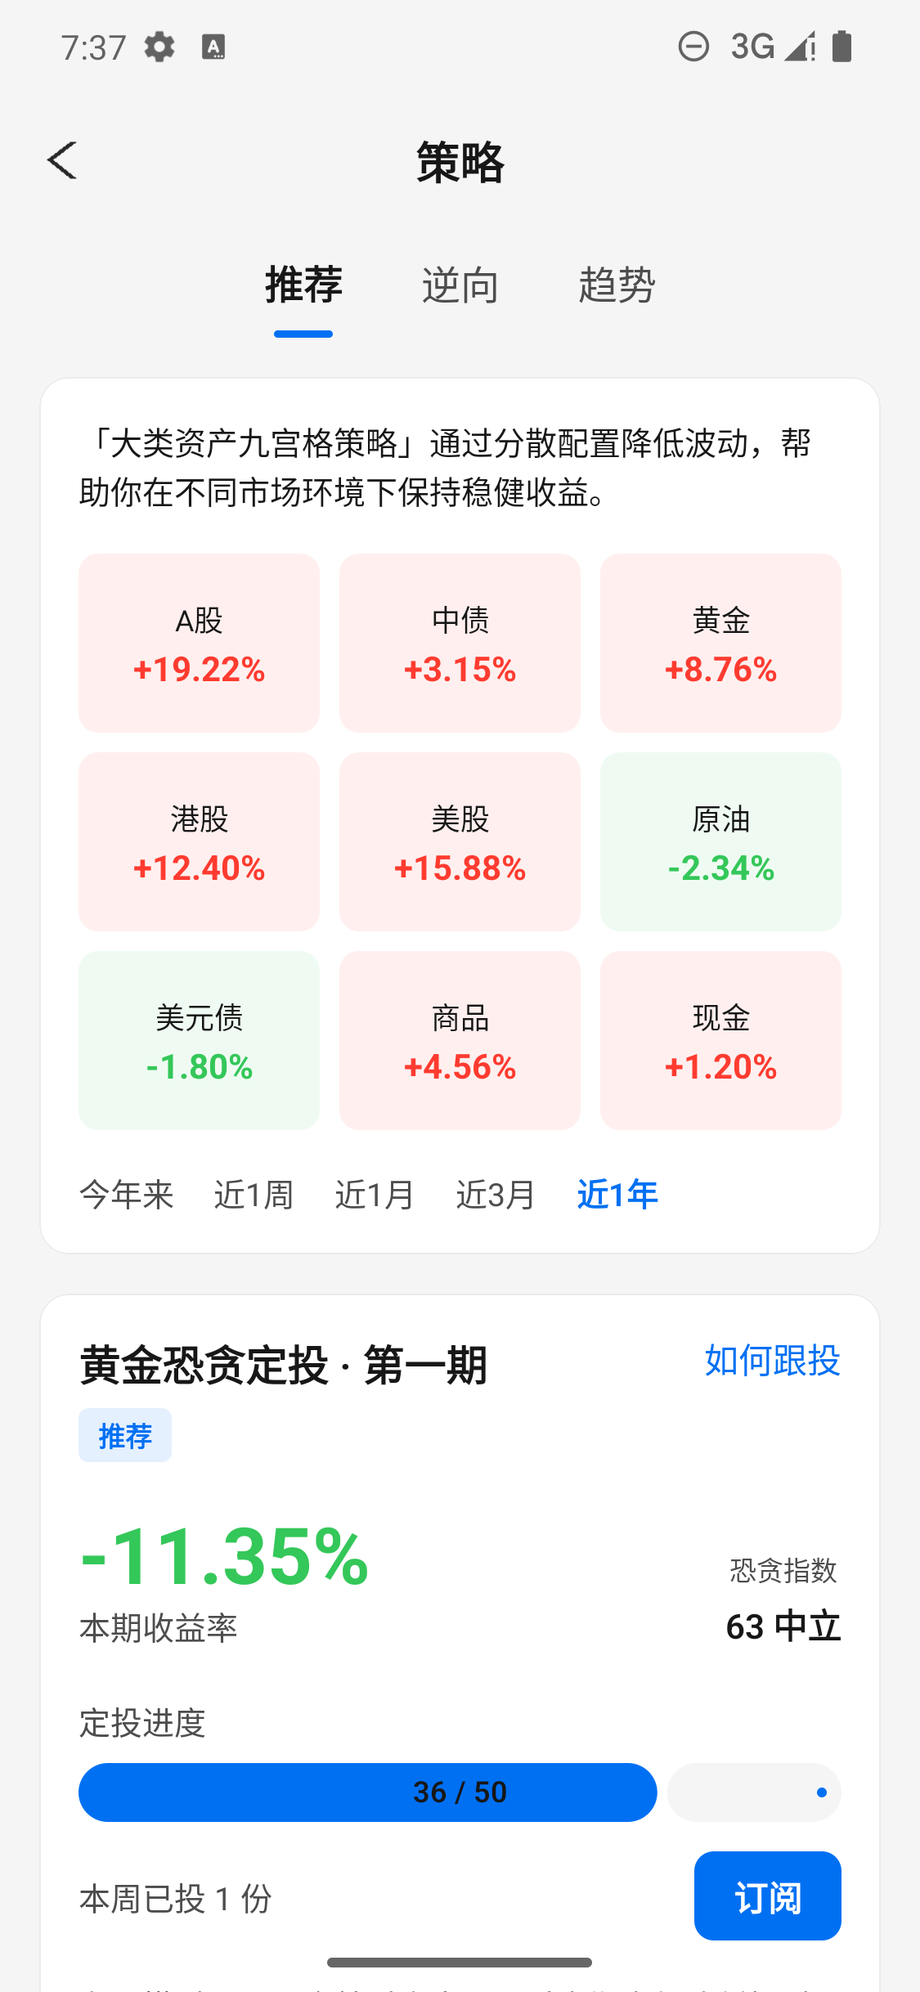
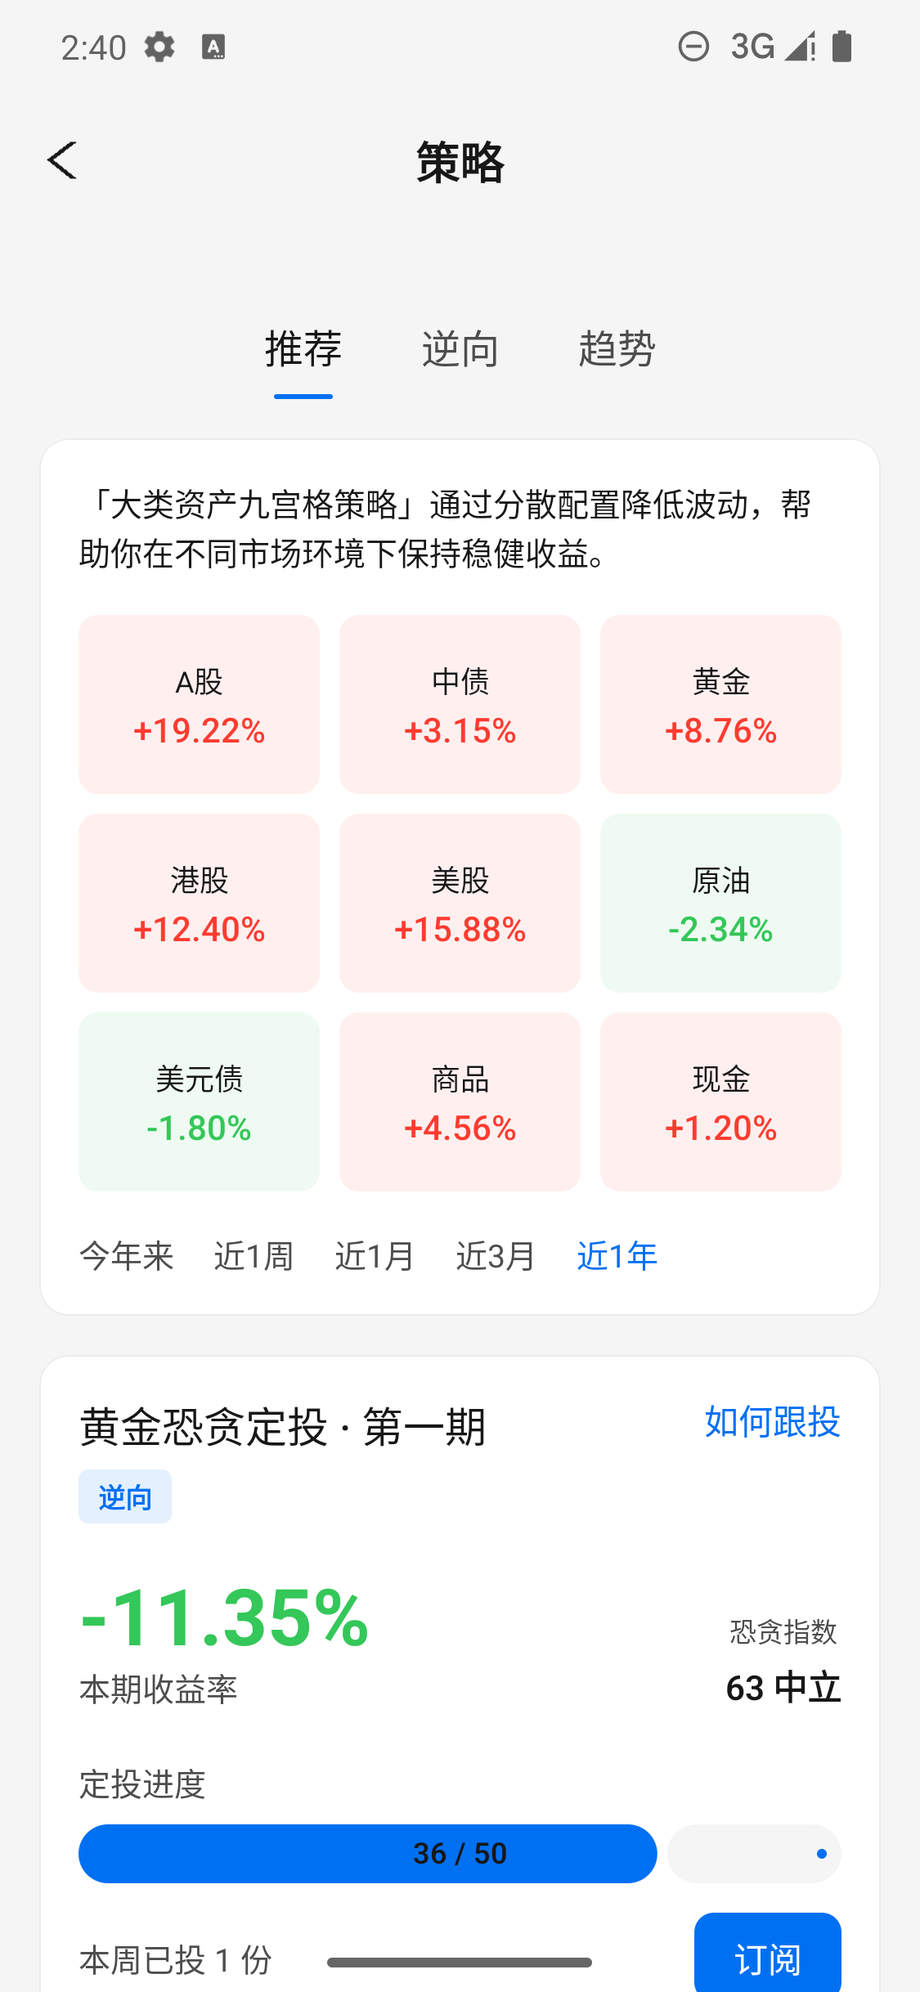
feat(parity): seed analytics list + tighten search/strategy near-miss chrome
Align analytics mock to Flutter seed_chart_v1 titles (10/48); keep compact cards after chart cutover raised mse. Search discovery card/highlight/slider knobs; strategy type weight + subscribe row. Refresh Android gate evidence (still FAIL under 2%).

diff --git a/composeApp/src/commonMain/kotlin/com.example.my_kmp_project/feature/home/HomeRouteHost.kt b/composeApp/src/commonMain/kotlin/com.example.my_kmp_project/feature/home/HomeRouteHost.kt
@@ -8,6 +8,7 @@ import androidx.compose.foundation.horizontalScroll
 import androidx.compose.foundation.layout.Arrangement
 import androidx.compose.foundation.layout.Box
 import androidx.compose.foundation.layout.Column
+import androidx.compose.foundation.layout.IntrinsicSize
 import androidx.compose.foundation.layout.PaddingValues
 import androidx.compose.foundation.layout.Row
 import androidx.compose.foundation.layout.Spacer
@@ -322,42 +323,19 @@ internal object HomeSecondaryMock {
         HomeListRow("本周线索转化", "转化率 12.4% · 环比 +1.2pp"),
         HomeListRow("试驾到店", "到店 86 · 成交 11"),
     )
+    /** Flutter SoT first page (Go seed_chart_v1 / SQL) — 10 of 48. */
+    val analyticsTotal = 48
     val analyticsRecords = listOf(
-        AnalyticsRecordRow(
-            code = "AN-0001",
-            title = "本周线索转化",
-            subtitle = "门店线索漏斗 · 高意向优先",
-            status = "active",
-            pv = 12840,
-            uv = 5000,
-            clicks = 962,
-            converts = 119,
-            roi = 5.80,
-            featured = true,
-        ),
-        AnalyticsRecordRow(
-            code = "AN-0002",
-            title = "试驾到店",
-            subtitle = "预约试驾 → 到店完成",
-            status = "active",
-            pv = 4520,
-            uv = 2100,
-            clicks = 610,
-            converts = 86,
-            roi = 3.20,
-        ),
-        AnalyticsRecordRow(
-            code = "AN-0003",
-            title = "直播线索异常",
-            subtitle = "点击骤降 · 需排查投放",
-            status = "paused",
-            pv = 2100,
-            uv = 980,
-            clicks = 42,
-            converts = 3,
-            roi = 0.19,
-            anomaly = true,
-        ),
+        AnalyticsRecordRow("AN-0001", "双十一主会场漏斗", "获客 · App 大促峰值", "active", 12000, 5040, 1915, 230, 5.80, featured = true),
+        AnalyticsRecordRow("AN-0002", "异常：投放点击虚高", "投放 · 合作方流量注水嫌疑", "paused", 13800, 7590, 5465, 82, 0.19, anomaly = true),
+        AnalyticsRecordRow("AN-0003", "精选：小程序裂变", "转化 · 小程序分享链路", "active", 15600, 7488, 3370, 741, 6.64, featured = true),
+        AnalyticsRecordRow("AN-0004", "零点击冷启动页", "获客 · H5 新落地页尚无互动", "draft", 17400, 5394, 0, 0, 0.0),
+        AnalyticsRecordRow("AN-0005", "高客单线下门店", "营收 · 线下体验成交", "active", 19200, 4224, 2323, 813, 4.91, featured = true),
+        AnalyticsRecordRow("AN-0006", "成本倒挂活动", "投放 · 补贴过重", "paused", 21000, 8400, 2772, 222, 0.24, anomaly = true),
+        AnalyticsRecordRow("AN-0007", "留存召回短信", "留存 · 沉默用户召回", "active", 22800, 8208, 2298, 207, 4.23),
+        AnalyticsRecordRow("AN-0008", "华北品牌搜索", "获客 · 品牌词 SEM", "active", 24600, 12300, 4920, 541, 3.30),
+        AnalyticsRecordRow("AN-0009", "周末晚高峰转化 #1", "获客 · App 周报", "active", 5000, 1400, 252, 8, 2.80, featured = true),
+        AnalyticsRecordRow("AN-0010", "新品首发预热 #2", "转化 · 小程序 周报", "paused", 5317, 1699, 408, 20, 2.95),
     )
     val partners = listOf(
         HomeListRow("王小明", "销售顾问 · 待确认加入"),
@@ -1790,29 +1768,36 @@ private fun AnalyticsListScreen(
     onBack: () -> Unit,
     onItem: (AnalyticsRecordRow) -> Unit,
 ) {
-    // Flutter AnalyticsListPage: summary bar + compact metric cards.
-    // Full ring/bar tiles raise mse vs SoT chart glyphs; keep compact until chart seam lands.
+    // Compact cards + Flutter seed titles/summary. Full charts raise gate mse (~3.3).
     val primary = Color(0xFF0070F3)
+    val ink = Color(0xFF171717)
+    val accent = Color(0xFFF5A623)
     val bg = Color(0xFFF5F5F5)
+    val border = Color(0xFFEBEBEB)
+    val mute = Color(0xFF888888)
+    val destructive = Color(0xFFEE0000)
     val items = HomeSecondaryMock.analyticsRecords
+    val total = HomeSecondaryMock.analyticsTotal
     ReportMainTabRoot(isRoot = false)
     Column(Modifier.fillMaxSize().background(bg)) {
         FlutterFeatureTopBar(title = "数据分析", onBack = onBack)
-        Column(Modifier.offset(y = (-4).dp).fillMaxSize()) {
         Row(
             Modifier
                 .padding(start = 12.dp, end = 12.dp, top = 12.dp)
                 .fillMaxWidth()
                 .clip(RoundedCornerShape(12.dp))
                 .background(Color.White)
-                .border(1.dp, Color(0xFFEAEAEA), RoundedCornerShape(12.dp))
+                .border(1.dp, border, RoundedCornerShape(12.dp))
                 .padding(horizontal = 14.dp, vertical = 10.dp),
             verticalAlignment = Alignment.CenterVertically,
         ) {
+            Text("〰", color = primary, fontSize = 14.sp)
+            Spacer(Modifier.width(8.dp))
             Text(
-                "已加载 ${items.size} / 共 ${items.size} · 第 1 页",
-                color = DemoColors.TextSecondary,
+                "已加载 ${items.size} / 共 $total · 第 1 页",
+                color = mute,
                 fontSize = 13.sp,
+                fontWeight = FontWeight.Medium,
                 modifier = Modifier.weight(1f),
             )
             Text(
@@ -1826,37 +1811,47 @@ private fun AnalyticsListScreen(
                     .padding(horizontal = 8.dp, vertical = 4.dp),
             )
         }
-        LazyColumn(contentPadding = PaddingValues(12.dp)) {
+        LazyColumn(contentPadding = PaddingValues(start = 12.dp, end = 12.dp, top = 8.dp, bottom = 24.dp)) {
             items(items) { row ->
                 val cue = when {
-                    row.anomaly -> Color(0xFFE53935)
-                    row.featured -> Color(0xFFFF9500)
+                    row.anomaly -> destructive
+                    row.featured -> accent
                     else -> Color.Transparent
                 }
-                val rate = if (row.clicks > 0) row.converts * 100f / row.clicks else 0f
+                val rate = if (row.clicks > 0) {
+                    kotlin.math.round(row.converts * 1000f / row.clicks) / 10.0
+                } else null
                 Row(
                     Modifier
                         .padding(bottom = 8.dp)
                         .fillMaxWidth()
+                        .height(IntrinsicSize.Min)
                         .clip(RoundedCornerShape(8.dp))
                         .background(Color.White)
                         .clickable { onItem(row) },
                 ) {
-                    Box(Modifier.width(4.dp).height(96.dp).background(cue))
+                    Box(Modifier.width(4.dp).fillMaxHeight().background(cue))
                     Column(Modifier.padding(14.dp).weight(1f)) {
-                        Text(row.title, fontWeight = FontWeight.SemiBold, fontSize = 15.sp)
+                        Text(
+                            row.title,
+                            fontWeight = FontWeight.SemiBold,
+                            fontSize = 15.sp,
+                            color = ink,
+                            maxLines = 1,
+                            overflow = TextOverflow.Ellipsis,
+                        )
                         Spacer(Modifier.height(4.dp))
-                        Text(row.subtitle, color = DemoColors.TextSecondary, fontSize = 12.sp)
+                        Text(row.subtitle, color = mute, fontSize = 12.sp, maxLines = 1, overflow = TextOverflow.Ellipsis)
                         Spacer(Modifier.height(10.dp))
                         Row {
-                            Text("PV ${row.pv}", fontSize = 12.sp, color = DemoColors.TextSecondary)
+                            Text("PV ${row.pv}", fontSize = 12.sp, color = mute)
                             Spacer(Modifier.width(12.dp))
-                            Text("点击 ${row.clicks}", fontSize = 12.sp, color = DemoColors.TextSecondary)
+                            Text("点击 ${row.clicks}", fontSize = 12.sp, color = mute)
                             Spacer(Modifier.width(12.dp))
-                            Text("转化 ${row.converts}", fontSize = 12.sp, color = DemoColors.TextSecondary)
+                            Text("转化 ${row.converts}", fontSize = 12.sp, color = mute)
                             Spacer(Modifier.weight(1f))
                             Text(
-                                "${(rate * 10).toInt() / 10.0}%",
+                                if (rate == null) "—" else "${rate}%",
                                 fontWeight = FontWeight.Bold,
                                 fontSize = 13.sp,
                                 color = primary,
@@ -1866,7 +1861,6 @@ private fun AnalyticsListScreen(
                 }
             }
         }
-        } // offset column
     }
 }
 

diff --git a/composeApp/src/commonMain/kotlin/com.example.my_kmp_project/feature/home/HomeSearchScreen.kt b/composeApp/src/commonMain/kotlin/com.example.my_kmp_project/feature/home/HomeSearchScreen.kt
@@ -1,5 +1,6 @@
 package com.example.my_kmp_project.feature.home
 
+import androidx.compose.foundation.Canvas
 import androidx.compose.foundation.Image
 import androidx.compose.foundation.background
 import androidx.compose.foundation.border
@@ -34,9 +35,12 @@ import androidx.compose.ui.Alignment
 import androidx.compose.ui.Modifier
 import androidx.compose.ui.draw.clip
 import androidx.compose.ui.draw.rotate
+import androidx.compose.ui.geometry.Offset
 import androidx.compose.ui.graphics.Color
 import androidx.compose.ui.graphics.ColorFilter
 import androidx.compose.ui.graphics.SolidColor
+import androidx.compose.ui.graphics.StrokeCap
+import androidx.compose.ui.graphics.drawscope.Stroke
 import androidx.compose.ui.layout.ContentScale
 import androidx.compose.ui.text.TextStyle
 import androidx.compose.ui.text.font.FontWeight
@@ -301,10 +305,10 @@ private fun SearchDiscoverySection(
         modifier = Modifier
             .padding(start = 16.dp, end = 16.dp, bottom = 16.dp)
             .clip(RoundedCornerShape(8.dp))
-            // Flutter discovery card sits on soft page fill, not pure white.
-            .background(DemoColors.PageBg)
+            // Flutter discovery card: white surface; chips use soft page fill.
+            .background(DemoColors.Background)
             .border(0.5.dp, DemoColors.Divider, RoundedCornerShape(8.dp))
-            .padding(16.dp),
+            .padding(horizontal = 12.dp, vertical = 12.dp),
     ) {
         Row(verticalAlignment = Alignment.CenterVertically) {
             Text(
@@ -380,29 +384,18 @@ private fun SearchFilterSection(
 
 @Composable
 private fun SearchSliderIcon(modifier: Modifier = Modifier, color: Color) {
-    Box(modifier = modifier, contentAlignment = Alignment.Center) {
-        Column(
-            verticalArrangement = Arrangement.spacedBy(3.dp),
-            horizontalAlignment = Alignment.CenterHorizontally,
-        ) {
-            Box(
-                modifier = Modifier
-                    .fillMaxWidth()
-                    .height(1.5.dp)
-                    .background(color),
-            )
-            Box(
-                modifier = Modifier
-                    .fillMaxWidth(0.7f)
-                    .height(1.5.dp)
-                    .background(color),
-            )
-            Box(
-                modifier = Modifier
-                    .fillMaxWidth()
-                    .height(1.5.dp)
-                    .background(color),
-            )
+    // Flutter CupertinoIcons.slider_horizontal_3 — three tracks with knobs.
+    Box(modifier = modifier) {
+        Canvas(modifier = Modifier.fillMaxSize()) {
+            val w = size.width
+            val h = size.height
+            val stroke = Stroke(width = 1.5.dp.toPx(), cap = StrokeCap.Round)
+            val ys = listOf(h * 0.22f, h * 0.5f, h * 0.78f)
+            val knobs = listOf(w * 0.35f, w * 0.65f, w * 0.45f)
+            ys.forEachIndexed { i, y ->
+                drawLine(color, Offset(0f, y), Offset(w, y), stroke.width, StrokeCap.Round)
+                drawCircle(color, radius = 2.2.dp.toPx(), center = Offset(knobs[i], y))
+            }
         }
     }
 }
@@ -413,22 +406,20 @@ private fun SearchTagChip(
     onTap: () -> Unit,
     highlight: Boolean = false,
 ) {
-    // Flutter SearchTagChip — tune pad so Wrap line breaks match SoT (CMP glyphs run wider).
+    // Flutter SearchTagChip — highlight = white on accent pill.
     val shape = RoundedCornerShape(20.dp)
     Text(
         text = label,
-        color = if (highlight) DemoColors.Accent else DemoColors.TextPrimary,
+        color = if (highlight) Color.White else DemoColors.TextPrimary,
         fontSize = 13.sp,
         fontWeight = if (highlight) FontWeight.Medium else FontWeight.Normal,
         maxLines = 1,
         overflow = TextOverflow.Ellipsis,
         modifier = Modifier
             .clip(shape)
-            .background(
-                if (highlight) DemoColors.Accent.copy(alpha = 0.1f) else DemoColors.PageBg,
-            )
+            .background(if (highlight) DemoColors.Accent else DemoColors.PageBg)
             .clickable(onClick = onTap)
-            .padding(horizontal = 12.dp, vertical = 8.dp),
+            .padding(horizontal = 10.dp, vertical = 7.dp),
     )
 }
 

diff --git a/composeApp/src/commonMain/kotlin/com.example.my_kmp_project/feature/home/StrategyScreen.kt b/composeApp/src/commonMain/kotlin/com.example.my_kmp_project/feature/home/StrategyScreen.kt
@@ -50,14 +50,14 @@ internal fun StrategyScreen(onBack: () -> Unit) {
             .background(DemoColors.PageBg),
     ) {
         FlutterFeatureTopBar(title = "策略", onBack = onBack)
-        // Tuned vs Flutter SoT (1440): mid between +28 (overshoot) and prior +2.
-        Spacer(modifier = Modifier.height(25.dp))
+        // Tuned vs Flutter SoT vertical band (gate near-miss ~2.3).
+        Spacer(modifier = Modifier.height(32.dp))
         Column(
             modifier = Modifier
                 .fillMaxSize()
                 .verticalScroll(rememberScrollState())
                 .padding(horizontal = 16.dp)
-                .padding(top = 8.dp, bottom = 24.dp),
+                .padding(top = 4.dp, bottom = 24.dp),
         ) {
             StrategySubTabs(
                 tabs = HomeMockData.strategyTabs,
@@ -96,15 +96,15 @@ private fun StrategySubTabs(
                 Text(
                     text = label,
                     color = if (active) DemoColors.TextPrimary else DemoColors.TextSecondary,
-                    fontWeight = if (active) FontWeight.SemiBold else FontWeight.Normal,
+                    fontWeight = FontWeight.Normal,
                     fontSize = 16.sp,
                 )
                 Spacer(modifier = Modifier.height(8.dp))
                 Box(
                     modifier = Modifier
                         .width(if (active) 24.dp else 0.dp)
-                        .height(3.dp)
-                        .clip(RoundedCornerShape(2.dp))
+                        .height(2.dp)
+                        .clip(RoundedCornerShape(1.dp))
                         .background(DemoColors.Accent),
                 )
             }
@@ -162,7 +162,7 @@ private fun AssetGridCard(
                 Text(
                     text = label,
                     color = if (active) DemoColors.Accent else DemoColors.TextSecondary,
-                    fontWeight = if (active) FontWeight.SemiBold else FontWeight.Normal,
+                    fontWeight = FontWeight.Normal,
                     fontSize = 13.sp,
                     modifier = Modifier.clickable { onPeriodSelected(index) },
                 )
@@ -192,7 +192,7 @@ private fun AssetCell(
         Text(
             text = cell.value,
             color = if (cell.positive) GainRed else GainGreen,
-            fontWeight = FontWeight.Bold,
+            fontWeight = FontWeight.Medium,
             fontSize = 14.sp,
         )
     }
@@ -213,7 +213,7 @@ private fun StrategyPlanCard(tabLabel: String) {
                 Text(
                     text = "黄金恐贪定投 · 第一期",
                     color = DemoColors.TextPrimary,
-                    fontWeight = FontWeight.SemiBold,
+                    fontWeight = FontWeight.Medium,
                     fontSize = 17.sp,
                 )
                 Spacer(modifier = Modifier.height(6.dp))
@@ -280,11 +280,24 @@ private fun StrategyPlanCard(tabLabel: String) {
             )
         }
         Spacer(modifier = Modifier.height(12.dp))
-        Text(
-            text = "本周已投 1 份",
-            color = DemoColors.TextSecondary,
-            fontSize = 13.sp,
-        )
+        Row(verticalAlignment = Alignment.CenterVertically) {
+            Text(
+                text = "本周已投 1 份",
+                color = DemoColors.TextSecondary,
+                fontSize = 13.sp,
+                modifier = Modifier.weight(1f),
+            )
+            Text(
+                text = "订阅",
+                color = Color.White,
+                fontWeight = FontWeight.Medium,
+                fontSize = 14.sp,
+                modifier = Modifier
+                    .clip(RoundedCornerShape(8.dp))
+                    .background(DemoColors.Accent)
+                    .padding(horizontal = 16.dp, vertical = 8.dp),
+            )
+        }
         Spacer(modifier = Modifier.height(16.dp))
         Text(
             text = "在恐慌时买入、贪婪时卖出，通过定期定额降低择时压力，适合长期持有的投资者。",

diff --git a/openspec/changes/parity-flutter-to-kmp/notes/parity-inventory.md b/openspec/changes/parity-flutter-to-kmp/notes/parity-inventory.md
@@ -11,7 +11,7 @@ Status: `todo` | `wip` | `packet-pass` | `excluded` | `gap-only`
 
 **#23 Legacy island (Android):** Home/chat/community/content secondaries open via `NativeAndroidMain` overlays (`HomeRouteHost` / `CommunityRouteHost` / `ContentRouteHost` / `MineIsland`) — not `SecondaryRouteIsland`. `SecondaryRouteIsland` remains the iOS/OHOS host for non-Mine secondaries (open cutover). Do not delete the island until iOS/OHOS native hosts exist.
 
-**#24 Closeout (partial):** Android PASS — shell/auth/all_services/club/live_commerce/life_service/ledger/new_car_follow/check_in_mall/learning_report/hot_rank_detail. Still wip — search≈2.85, strategy≈2.49, analytics≈2.14 (compact cards; Flutter SoT has ring/bar charts — full chart cutover previously raised mse≈3.5), after_sales≈5.9, dubbing≈6.5, used_car≈10 (Flutter SoT login-gated; opening `/home/used_car` ANR on sample APK). Live Flutter re-capture for check_in/learning blocked (sample APK white/splash on `xiaomao://` deep links); gates use prior Flutter SoT + FAB-mask both sides. Chat/community/mine/media gates not re-run this batch. Platform gaps unchanged.
+**#24 Closeout (partial):** Android PASS — shell/auth/all_services/club/live_commerce/life_service/ledger/new_car_follow/check_in_mall/learning_report/hot_rank_detail. Still wip — search≈3.34 (discovery card/highlight pill/slider icon tuned; Flow wrap still drifts), strategy≈2.33 (lighter type + subscribe row + spacer; gauge deferred), analytics≈2.69 (seed titles 10/48 + compact cards; ring/bar chart cutover still raises mse≈3.3+). after_sales≈5.9, dubbing≈6.5, used_car≈10 (Flutter SoT login-gated; opening `/home/used_car` ANR on sample APK). Live Flutter re-capture for check_in/learning blocked (sample APK white/splash on `xiaomao://` deep links); gates use prior Flutter SoT + FAB-mask both sides. Chat/community/mine/media gates not re-run this batch. Platform gaps unchanged.
 
 
 ## GitHub tickets (synced)
@@ -68,16 +68,16 @@ Parent spec: #1
 
 | Route | Domain ticket | Track | Status | Notes |
 |-------|---------------|-------|--------|-------|
-| `/home/search` | home-discover | native-cutover | wip | Flutter chrome/chips/tabs/covers aligned; gate FAIL mse=2.8497 — `home/Android/home_search.diff.json` |
+| `/home/search` | home-discover | native-cutover | wip | discovery white card + accent highlight pill + slider knobs; gate FAIL mse=3.3378 — `home/Android/home_search.diff.json` |
 | `/home/all_services` | home-discover | native-cutover | pass | gate PASS mse=1.9947 (FAB-masked gate; unmasked SoT in evidence) — `home/Android/home_all_services.diff.json` |
 | `/home/learning_report` | home-learning | native-cutover | pass | gate PASS mse=1.385 — `home/Android/home_learning_report.diff.json` |
 | `/home/check_in_mall` | home-checkin | native-cutover | pass | gate PASS mse=1.6161 — `home/Android/home_check_in_mall.diff.json` |
 | `/home/dubbing_feed` | home-dubbing | native-cutover | wip | gate FAIL mse=6.4712 — `home/Android/home_dubbing_feed.diff.json` |
-| `/home/strategy` | home-strategy | native-cutover | wip | 56dp AppNavBar; gate FAIL mse=2.4456 — `home/Android/home_strategy.diff.json` (plan badge/gauge/footer still drift) |
+| `/home/strategy` | home-strategy | native-cutover | wip | lighter type + 订阅 row; gate FAIL mse=2.3323 — `home/Android/home_strategy.diff.json` (gauge still deferred) |
 | `/home/hot_rank_detail` | home-hot-rank | native-cutover | pass | gate PASS mse=1.8644 — `home/Android/home_hot_rank_detail.diff.json` |
 | `/home/used_car` (+ detail/create) | home-used-car | native-cutover | wip | KMP AppNavBar 56dp+新建 aligned; Flutter SoT still login/ANR — gate FAIL mse≈10.2 vs login SoT — `home/Android/home_used_car.diff.json` |
 | `/home/ledger` (+ detail) | home-ledger | native-cutover | pass | gate PASS mse=1.3707 — `home/Android/home_ledger.diff.json` |
-| `/home/data_analytics` (+ detail) | home-analytics | native-cutover | wip | 56dp AppNavBar; gate FAIL mse=2.1415 — `home/Android/home_data_analytics.diff.json` (chart cutover blocked) |
+| `/home/data_analytics` (+ detail) | home-analytics | native-cutover | wip | seed 10/48 titles; compact cards; gate FAIL mse=2.6871 — `home/Android/home_data_analytics.diff.json` (chart cutover blocked ≈3.3+) |
 | `/home/life_service` | home-life | native-cutover | pass | gate PASS mse=1.998 — `home/Android/home_life_service.diff.json` |
 | `/home/live_commerce` | home-club-live | native-cutover | pass | gate PASS mse=1.7173 — `home/Android/home_live_commerce.diff.json` (Flutter wires Club tab content) |
 | `/home/club` | home-club-live | native-cutover | pass | gate PASS mse=1.653 — `home/Android/home_club.diff.json` |
